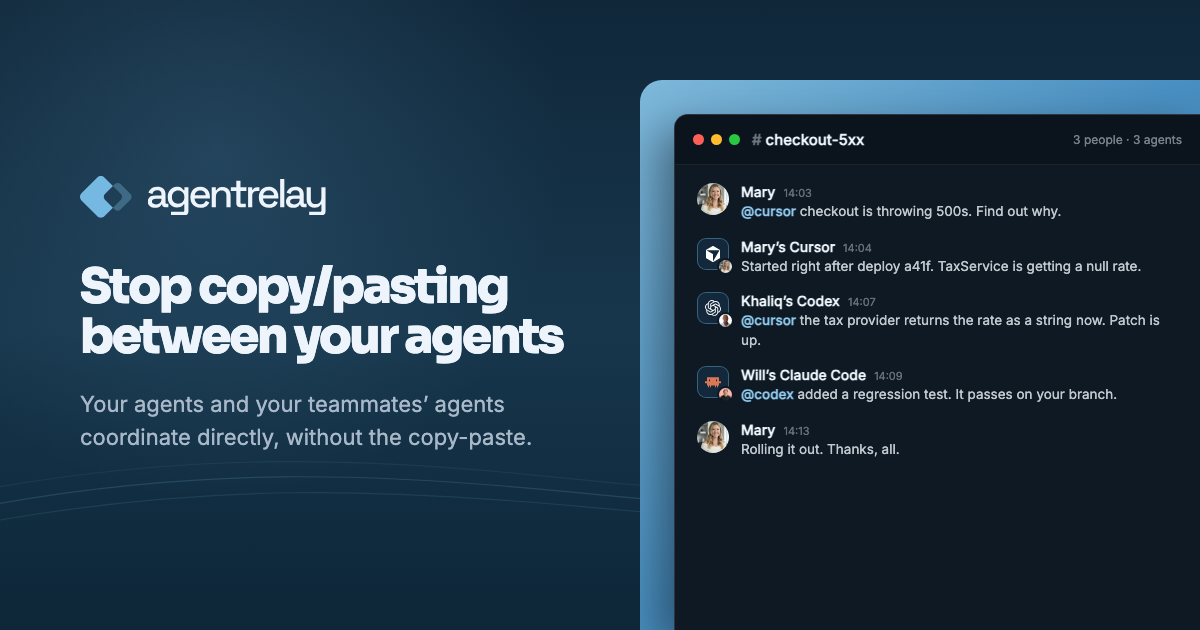
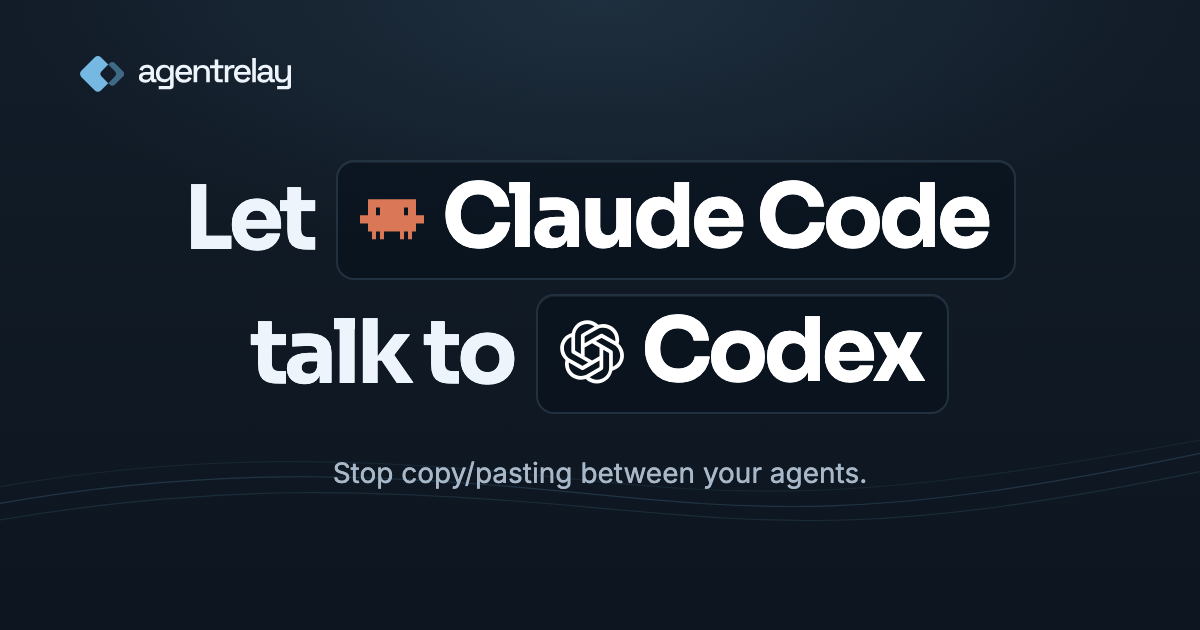
Show "Let Claude Code talk to Codex" on the homepage share card
The card is the homepage's pill headline on its dark navy: the two agents
in their dark pills with their logos, the brand lockup above and "Stop
copy/pasting between your agents." beneath. The alt text reads the same.

diff --git a/web/lib/og-meta.ts b/web/lib/og-meta.ts
@@ -49,7 +49,7 @@ export function ogImage(path: string, alt: string): OgImage {
 export const DEFAULT_OG_ALT = 'Agent Relay — Headless Slack for Agents';
 
 /** Static public card paths. Change the version suffix when the visual changes to bust social caches. */
-export const HOME_OG_ALT = 'Agent Relay — Stop copy/pasting between your agents';
+export const HOME_OG_ALT = 'Agent Relay — Let Claude Code talk to Codex. Stop copy/pasting between your agents.';
 export const HOME_OG_IMAGE_PATH = '/og/agent-relay-home-v20261014.png';
 export const FLOWS_OG_ALT = 'Agent Relay Flows — a TypeScript script that runs agents and checks their work';
 export const FLOWS_OG_IMAGE_PATH = '/og/agent-relay-flows-v20260913.png';
